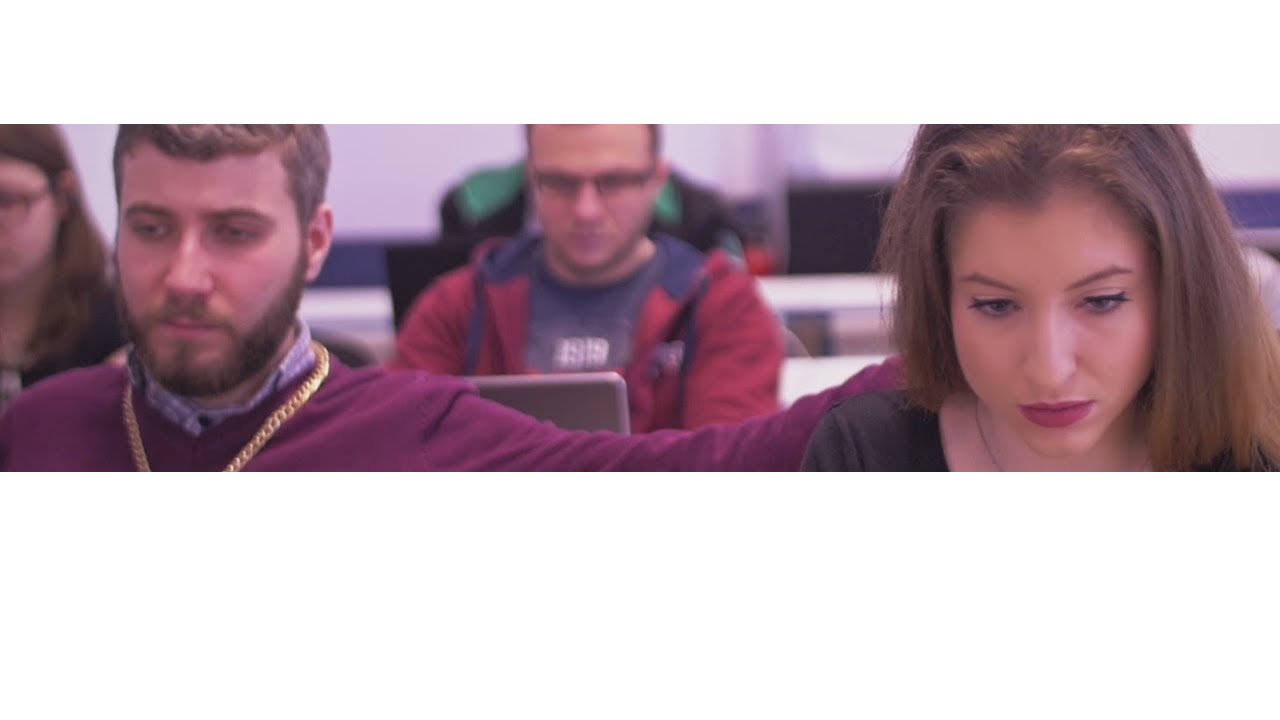
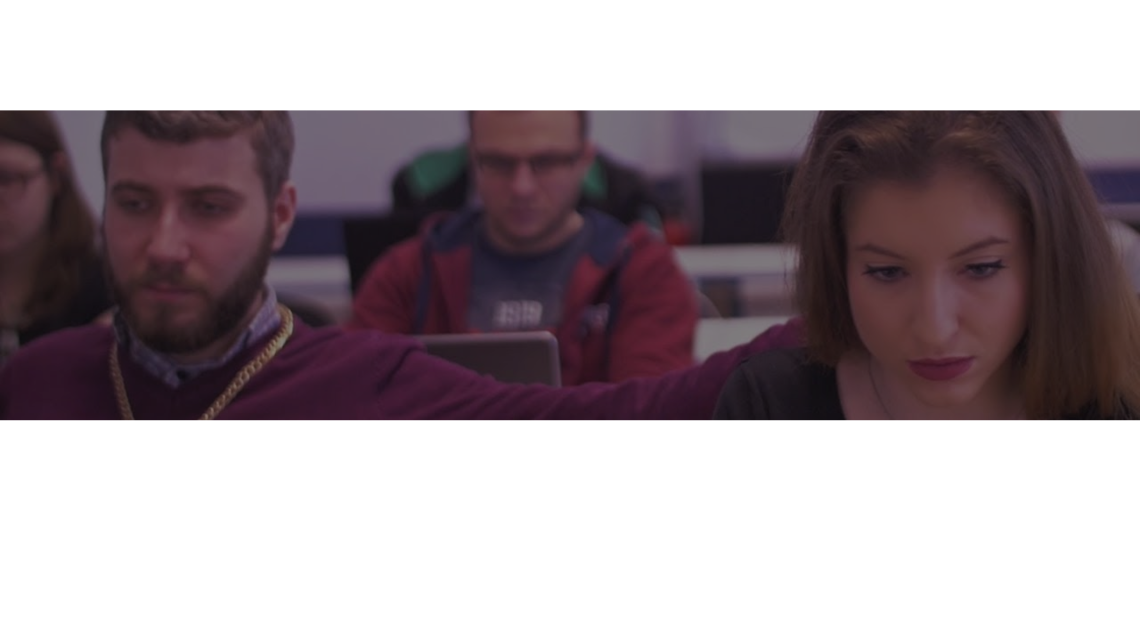
adjustment of background image

diff --git a/styles/footer.css b/styles/footer.css
@@ -57,5 +57,14 @@ footer > p {
 }
 
 .engineering-program > img {
-   width: 100%;
+    width: 80%;
+    height: 65%;
+    margin-left: 145px;
+}
+
+.engineering-program > h2 {
+    padding-left: 20em;
+    margin-top: -13em;
+    color: #ffffff;
+
 }
